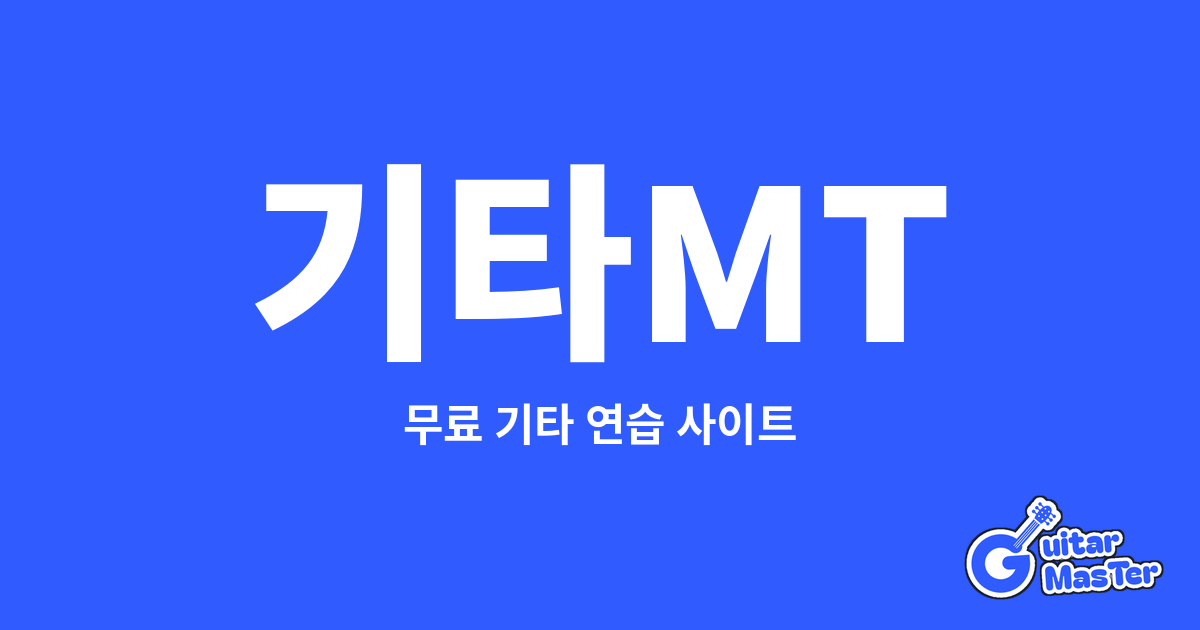
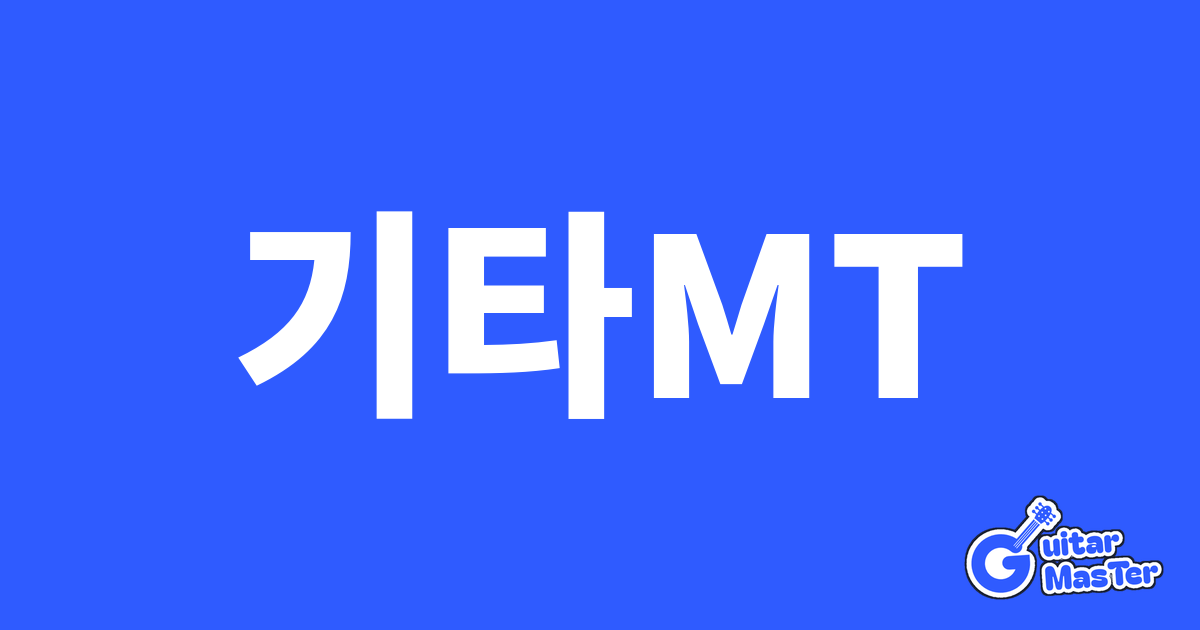
미리보기 그림: 아래 "무료 기타 연습 사이트" 줄 뺌 (K 요청)
Claude-Session: https://claude.ai/code/session_01Awb27ZYpto8rJxu2mnU4mg

Changed region(s): [[0.185, 0.2413, 0.8017, 0.7238]]

diff --git a/improv/index.html b/improv/index.html
@@ -11,7 +11,7 @@
 <meta property="og:title" content="즉흥연주 | 기타MT">
 <meta property="og:description" content="유명한 코드 진행을 반복해서 들으며 초견과 즉흥연주를 연습하는 페이지 (마이너 블루스 · 메이저 블루스 · 재즈 블루스)">
 <meta property="og:url" content="https://guitarmt.com/improv/">
-<meta property="og:image" content="https://guitarmt.com/og.png?v=2">
+<meta property="og:image" content="https://guitarmt.com/og.png?v=3">
 <meta property="og:image:width" content="1200">
 <meta property="og:image:height" content="630">
 <meta name="twitter:card" content="summary_large_image">

diff --git a/harmony/index.html b/harmony/index.html
@@ -11,7 +11,7 @@
 <meta property="og:title" content="화성학 | 기타MT">
 <meta property="og:description" content="화성학 문제 — 음이름 · ♯ 키 · ♭ 키 · 인터벌 · 코드 · 스케일 · 다이어토닉 코드를 계속 맞히며 익히기">
 <meta property="og:url" content="https://guitarmt.com/harmony/">
-<meta property="og:image" content="https://guitarmt.com/og.png?v=2">
+<meta property="og:image" content="https://guitarmt.com/og.png?v=3">
 <meta property="og:image:width" content="1200">
 <meta property="og:image:height" content="630">
 <meta name="twitter:card" content="summary_large_image">

diff --git a/chordear/index.html b/chordear/index.html
@@ -11,7 +11,7 @@
 <meta property="og:title" content="코드 청음 | 기타MT">
 <meta property="og:description" content="코드 청음 연습 — 코드 종류(메이저 · 마이너 · sus4 · dim · aug, Hard는 7th)와 코드 진행을 듣고 맞히기">
 <meta property="og:url" content="https://guitarmt.com/chordear/">
-<meta property="og:image" content="https://guitarmt.com/og.png?v=2">
+<meta property="og:image" content="https://guitarmt.com/og.png?v=3">
 <meta property="og:image:width" content="1200">
 <meta property="og:image:height" content="630">
 <meta name="twitter:card" content="summary_large_image">

diff --git a/chordscale/index.html b/chordscale/index.html
@@ -11,7 +11,7 @@
 <meta property="og:title" content="코드&amp;스케일 | 기타MT">
 <meta property="og:description" content="코드 찾기 · 코드 사전 · 트라이어드 · 보이싱 · 스케일을 기타 지판에서 보고 듣기">
 <meta property="og:url" content="https://guitarmt.com/chordscale/">
-<meta property="og:image" content="https://guitarmt.com/og.png?v=2">
+<meta property="og:image" content="https://guitarmt.com/og.png?v=3">
 <meta property="og:image:width" content="1200">
 <meta property="og:image:height" content="630">
 <meta name="twitter:card" content="summary_large_image">

diff --git a/ear/index.html b/ear/index.html
@@ -11,7 +11,7 @@
 <meta property="og:title" content="멜로디 청음 | 기타MT">
 <meta property="og:description" content="4분음표 한 마디를 듣고 음이름을 맞히는 청음 연습 — 2도~6도 도약 단계, Hard는 반음계까지">
 <meta property="og:url" content="https://guitarmt.com/ear/">
-<meta property="og:image" content="https://guitarmt.com/og.png?v=2">
+<meta property="og:image" content="https://guitarmt.com/og.png?v=3">
 <meta property="og:image:width" content="1200">
 <meta property="og:image:height" content="630">
 <meta name="twitter:card" content="summary_large_image">

diff --git a/chord/index.html b/chord/index.html
@@ -11,7 +11,7 @@
 <meta property="og:title" content="코드 초견 | 기타MT">
 <meta property="og:description" content="코드 진행을 보고 박자에 맞춰 쳐 본 다음, 피아노 소리로 정답을 확인하는 코드 초견 연습">
 <meta property="og:url" content="https://guitarmt.com/chord/">
-<meta property="og:image" content="https://guitarmt.com/og.png?v=2">
+<meta property="og:image" content="https://guitarmt.com/og.png?v=3">
 <meta property="og:image:width" content="1200">
 <meta property="og:image:height" content="630">
 <meta name="twitter:card" content="summary_large_image">

diff --git a/index.html b/index.html
@@ -13,7 +13,7 @@
 <meta property="og:title" content="기타MT">
 <meta property="og:description" content="기타MT — 무료 기타 연습 사이트. 멜로디·코드 초견, 청음, 즉흥연주, 코드&amp;스케일, 화성학, 메트로놈">
 <meta property="og:url" content="https://guitarmt.com/">
-<meta property="og:image" content="https://guitarmt.com/og.png?v=2">
+<meta property="og:image" content="https://guitarmt.com/og.png?v=3">
 <meta property="og:image:width" content="1200">
 <meta property="og:image:height" content="630">
 <meta name="twitter:card" content="summary_large_image">

diff --git a/metronome/index.html b/metronome/index.html
@@ -11,7 +11,7 @@
 <meta property="og:title" content="메트로놈 | 기타MT">
 <meta property="og:description" content="빠르기·박자·강박·음표 나누기·탭 템포가 있는 무료 온라인 메트로놈">
 <meta property="og:url" content="https://guitarmt.com/metronome/">
-<meta property="og:image" content="https://guitarmt.com/og.png?v=2">
+<meta property="og:image" content="https://guitarmt.com/og.png?v=3">
 <meta property="og:image:width" content="1200">
 <meta property="og:image:height" content="630">
 <meta name="twitter:card" content="summary_large_image">

diff --git a/privacy/index.html b/privacy/index.html
@@ -11,7 +11,7 @@
 <meta property="og:title" content="개인정보 처리방침 | 기타MT">
 <meta property="og:description" content="기타MT 개인정보 처리방침과 문의 연락처">
 <meta property="og:url" content="https://guitarmt.com/privacy/">
-<meta property="og:image" content="https://guitarmt.com/og.png?v=2">
+<meta property="og:image" content="https://guitarmt.com/og.png?v=3">
 <meta property="og:image:width" content="1200">
 <meta property="og:image:height" content="630">
 <meta name="twitter:card" content="summary_large_image">
